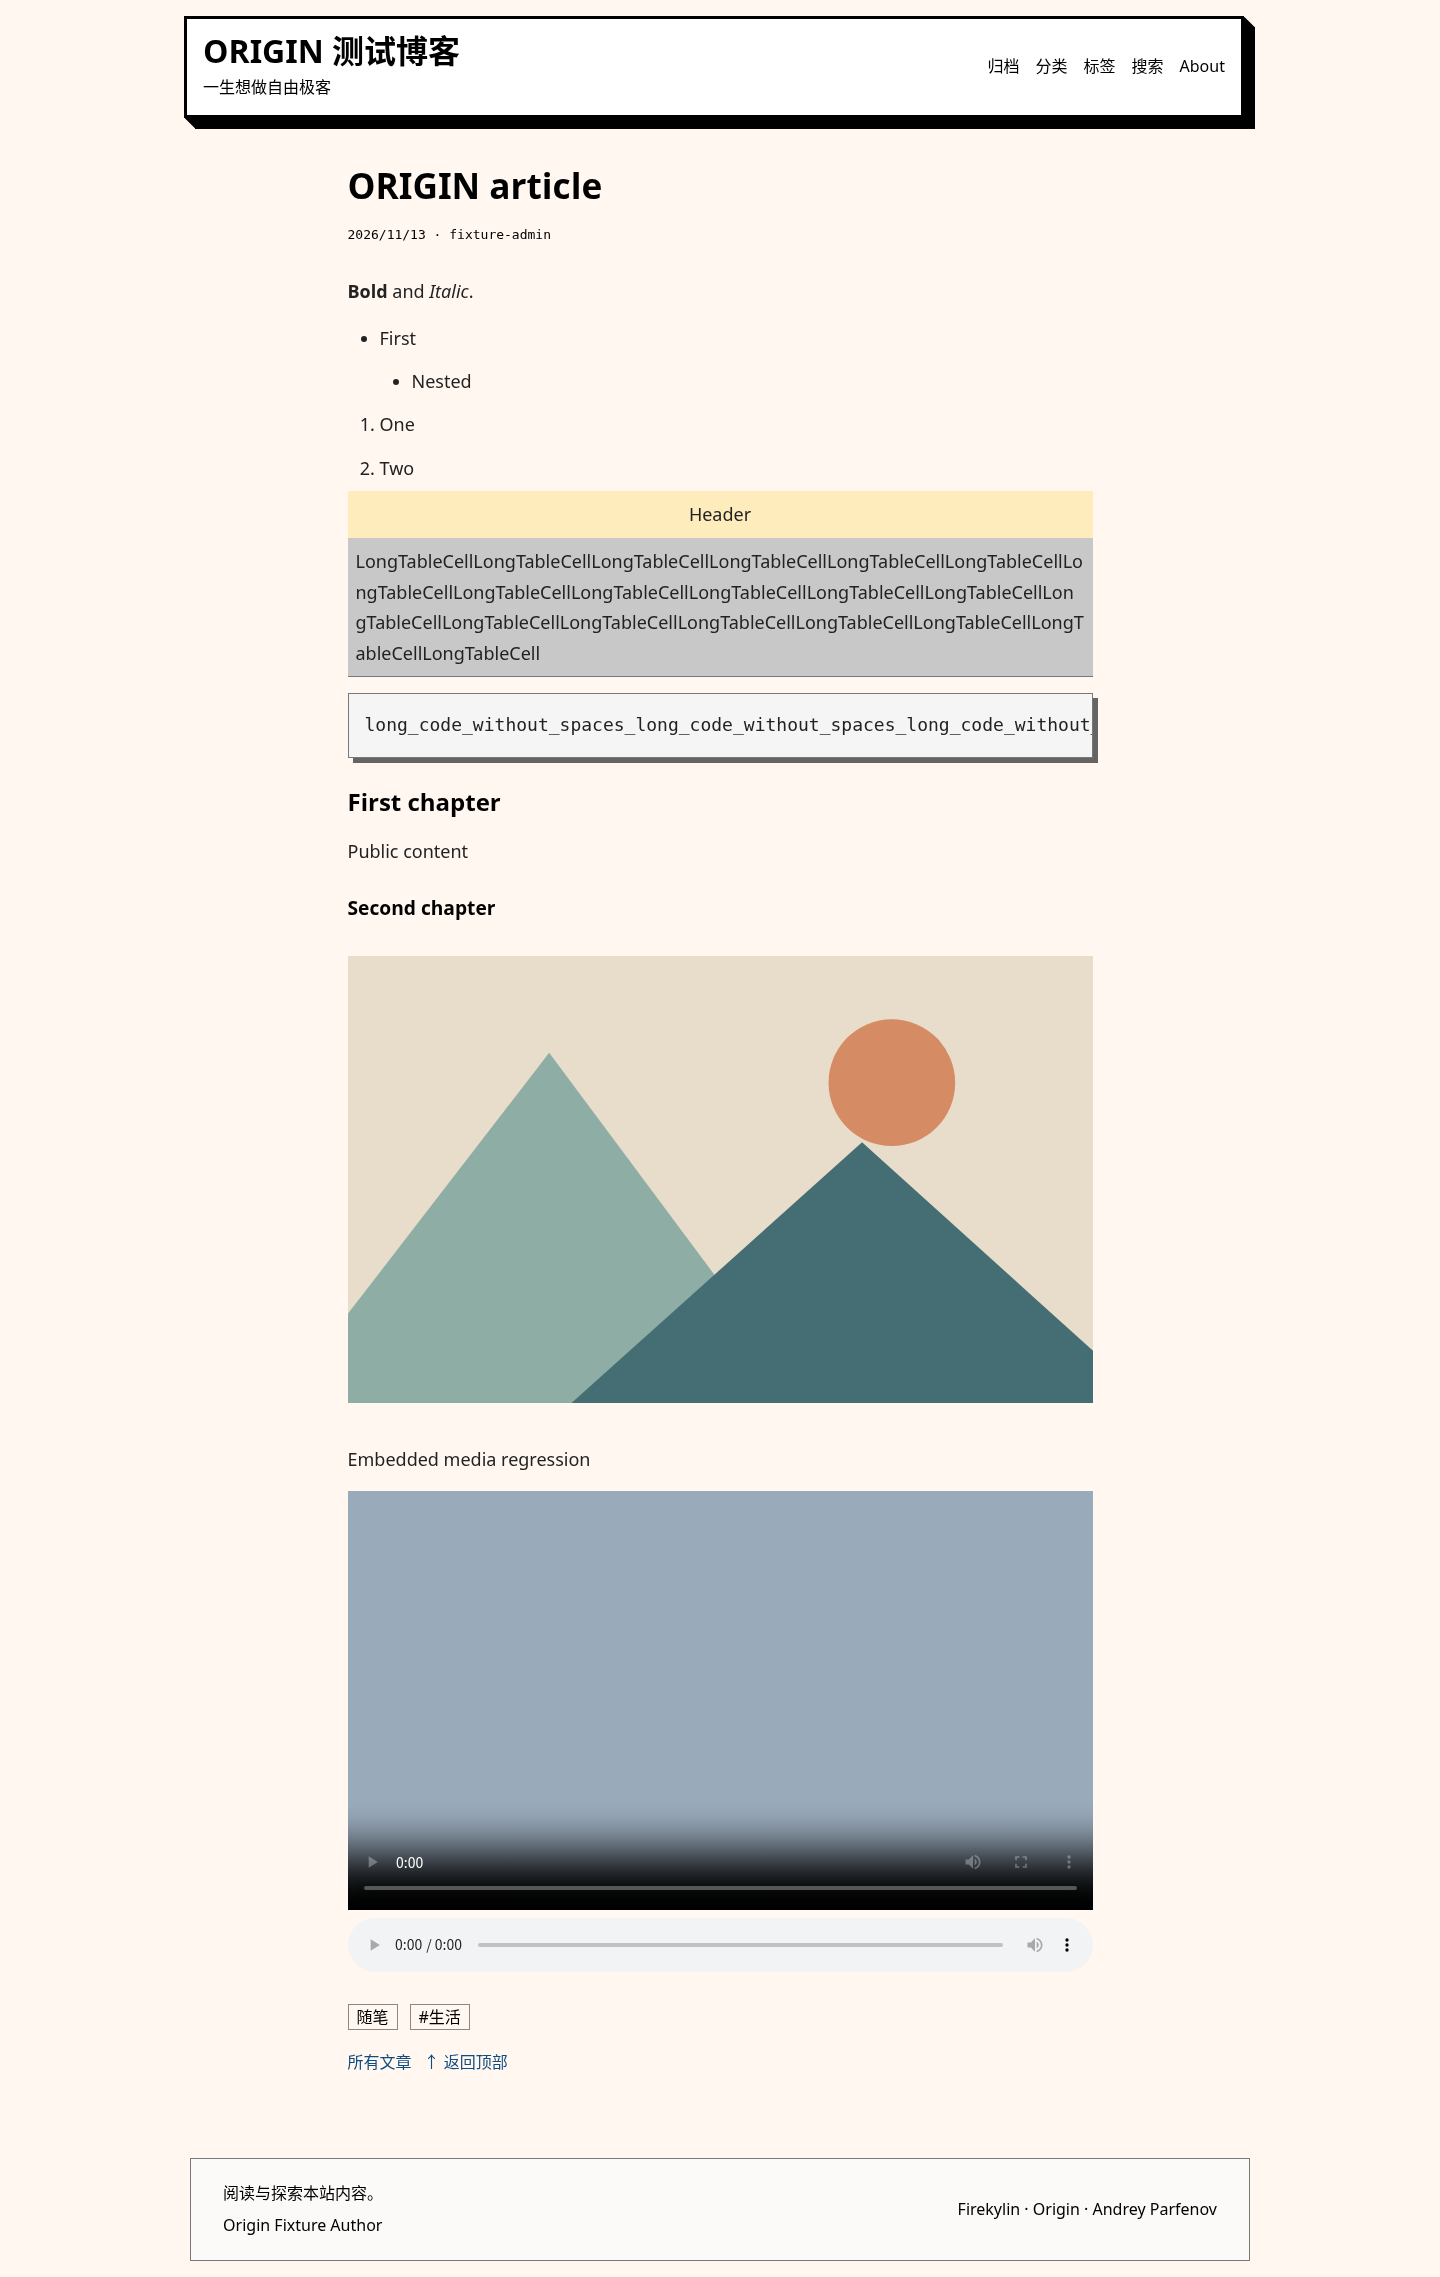
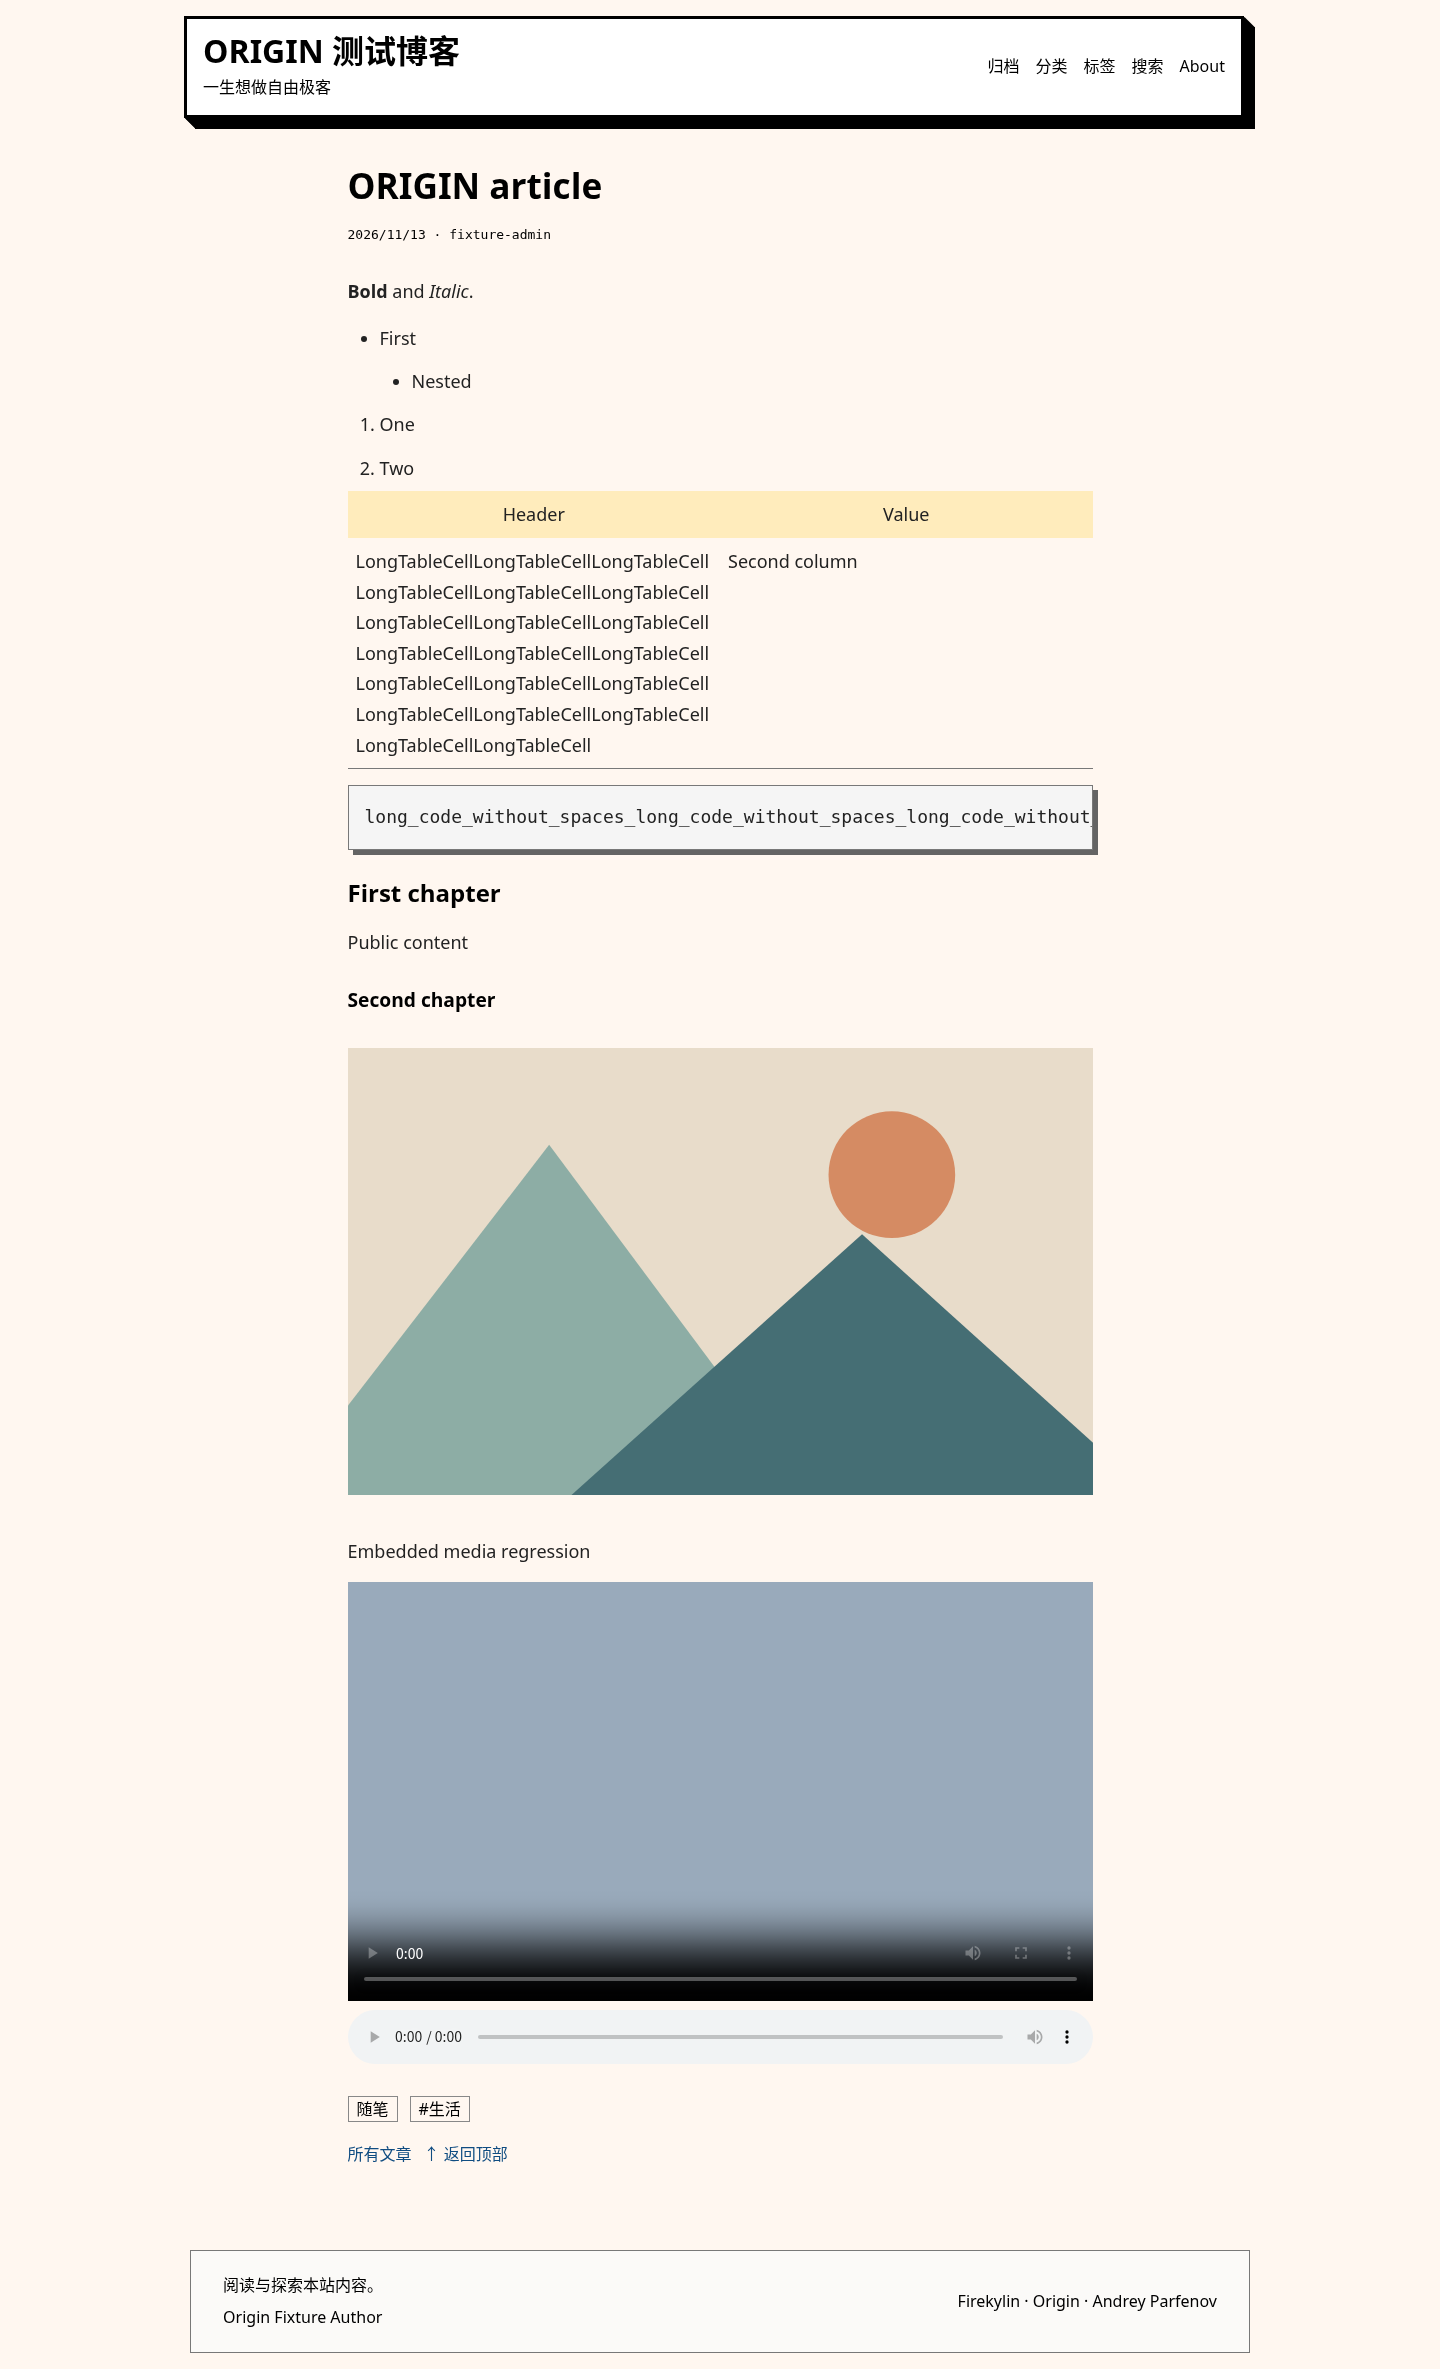
fix: retain Origin table headers through tablet breakpoint

diff --git a/packages/origin-hugo-theme/res/css/theme.css b/packages/origin-hugo-theme/res/css/theme.css
@@ -9,3 +9,5 @@ body{overflow-wrap:anywhere}.skip{position:absolute;top:-100px}.skip:focus{top:0
 html{color-scheme:light}body{min-height:100vh;height:auto}#main{flex:1 0 auto;width:100%;max-width:1584px;margin:0 auto;padding:2% 4% 3rem}.native-header{padding:1rem 4%}.header-frame{gap:1.5rem;flex-wrap:wrap}.header__description{line-height:1.5}.native-nav{margin:0;line-height:1.5;justify-content:flex-end}.native-nav a{border-bottom:2px solid transparent}.native-nav a:hover{border-color:#000}.featured-posts{max-height:none;min-height:330px}.featured-post{min-width:0}.featured-post__wrapper{color:inherit!important}.featured-post__tags:empty{display:none}.featured-post__tags a{display:inline-block}.featured-post__tags li:hover a{color:white}.featured-post.no-cover:hover{background:#555}.featured-post.no-cover{background:var(--color-card-bg)}.featured-post.no-cover .featured-post__title,.featured-post.no-cover .featured-post__description,.featured-post.no-cover time,.featured-post.no-cover .featured-post__tags a{color:var(--color-text)}.featured-post.no-cover .featured-post__tags li{border-color:var(--color-border)}.featured-post.no-cover:hover .featured-post__title,.featured-post.no-cover:hover .featured-post__description,.featured-post.no-cover:hover time,.featured-post.no-cover:hover .featured-post__tags a{color:#fff}.post-item{max-height:none}.post-item__meta{min-width:0;overflow-wrap:anywhere}.post-item__image{min-height:140px}.post-item__description{margin-bottom:.5rem}.post-item__tag{max-width:100%;max-height:none;line-height:1.2}.native-list-heading{max-width:80%;margin:0 auto 2rem}.listing-heading{font-size:2rem;font-weight:700;line-height:1.3}.native-directory{max-width:900px;margin:auto;line-height:1.8}.native-directory h1{font-size:2.2rem;font-weight:bold;margin:1rem 0}.native-directory h2{font-size:1.4rem;font-weight:bold;margin:1.5rem 0 .5rem}.native-directory ul{list-style:disc;padding-left:1.5rem}.native-directory a{color:var(--color-link)}.native-directory form{margin-bottom:2rem}.native-directory .post-list{width:100%;margin-top:1.5rem}.native-directory .pagination{width:100%}.article-meta{padding:0;margin:0 0 2rem;width:100%;z-index:auto}.post-title{font-size:2.2rem;font-weight:bold;line-height:1.3;margin:0 0 1rem}.post-date{font-family:monospace;line-height:1.5}.post-content,.prose{line-height:1.7}.prose p{margin:1rem 0}.prose pre{padding:1rem;border:1px solid var(--color-border);box-shadow:5px 5px var(--color-boxshadow);white-space:pre;background:#f5f5f5;color:#222}.prose pre code{white-space:pre;color:inherit;display:block;min-width:100%;width:max-content}.prose table{display:table;width:100%;table-layout:fixed}.prose td,.prose th{overflow-wrap:anywhere}.prose audio{height:54px}.prose h2,.prose h3{line-height:1.5}.post-footer{padding:0}.tags a{border:1px solid #888;padding:.25rem .5rem}.pagination{width:80%;margin:2rem auto;align-items:center;flex-wrap:wrap}.pagination a{border:1px solid #888;padding:.5rem 1rem}.native-footer{padding:1rem 4%;line-height:1.7}.native-footer .footer{gap:1rem}.native-footer .footer p{margin:.3rem 0}input,button{padding:.5rem;border:1px solid #888;background:#fff;color:#111}button:focus-visible{outline:2px solid #111}.skip:focus{background:#fff;padding:.5rem}.attachment-media{margin:1rem 0}.post-actions a{color:var(--color-link)}@media(max-width:1055px){.native-list-heading{max-width:100%}.header-frame{transform:none;max-width:calc(100% - 11px)}.pagination{width:100%}}@media(max-width:671px){.header__title{font-size:1.6rem}.header-frame{padding:1rem}.native-nav{justify-content:flex-start;font-size:.9rem}.featured-posts{grid-template-rows:auto;min-height:0}.featured-post{min-height:180px}.post-item-flex{flex-direction:column}.post-item--left{margin-right:0}.post-item__image{margin-top:1rem;padding-top:50%;min-height:0}.post-title{font-size:1.8rem}.footer{padding:1rem}.post-content table,.post-content tbody,.post-content tr,.post-content th,.post-content td{display:revert}.post-content td{padding:.5rem}.post-content thead tr{position:static}.post-content td:before{display:none}}@media(prefers-reduced-motion:reduce){*,*:before,*:after{transition:none!important;animation:none!important}}
 /* Preserve semantic inline emphasis after the original reset. */
 .prose em{font-style:italic}.prose code,.prose pre{font-family:monospace}.prose h3,.prose h4{font-weight:600}
+/* The upstream stacked-table breakpoint extends through 768px. Keep actual headers at every width. */
+@media(max-width:768px){.post-content table{display:table}.post-content thead{display:table-header-group}.post-content tbody{display:table-row-group}.post-content tr{display:table-row}.post-content th,.post-content td{display:table-cell}.post-content thead tr{position:static}.post-content td{padding:.5rem}.post-content td:before{display:none}}
